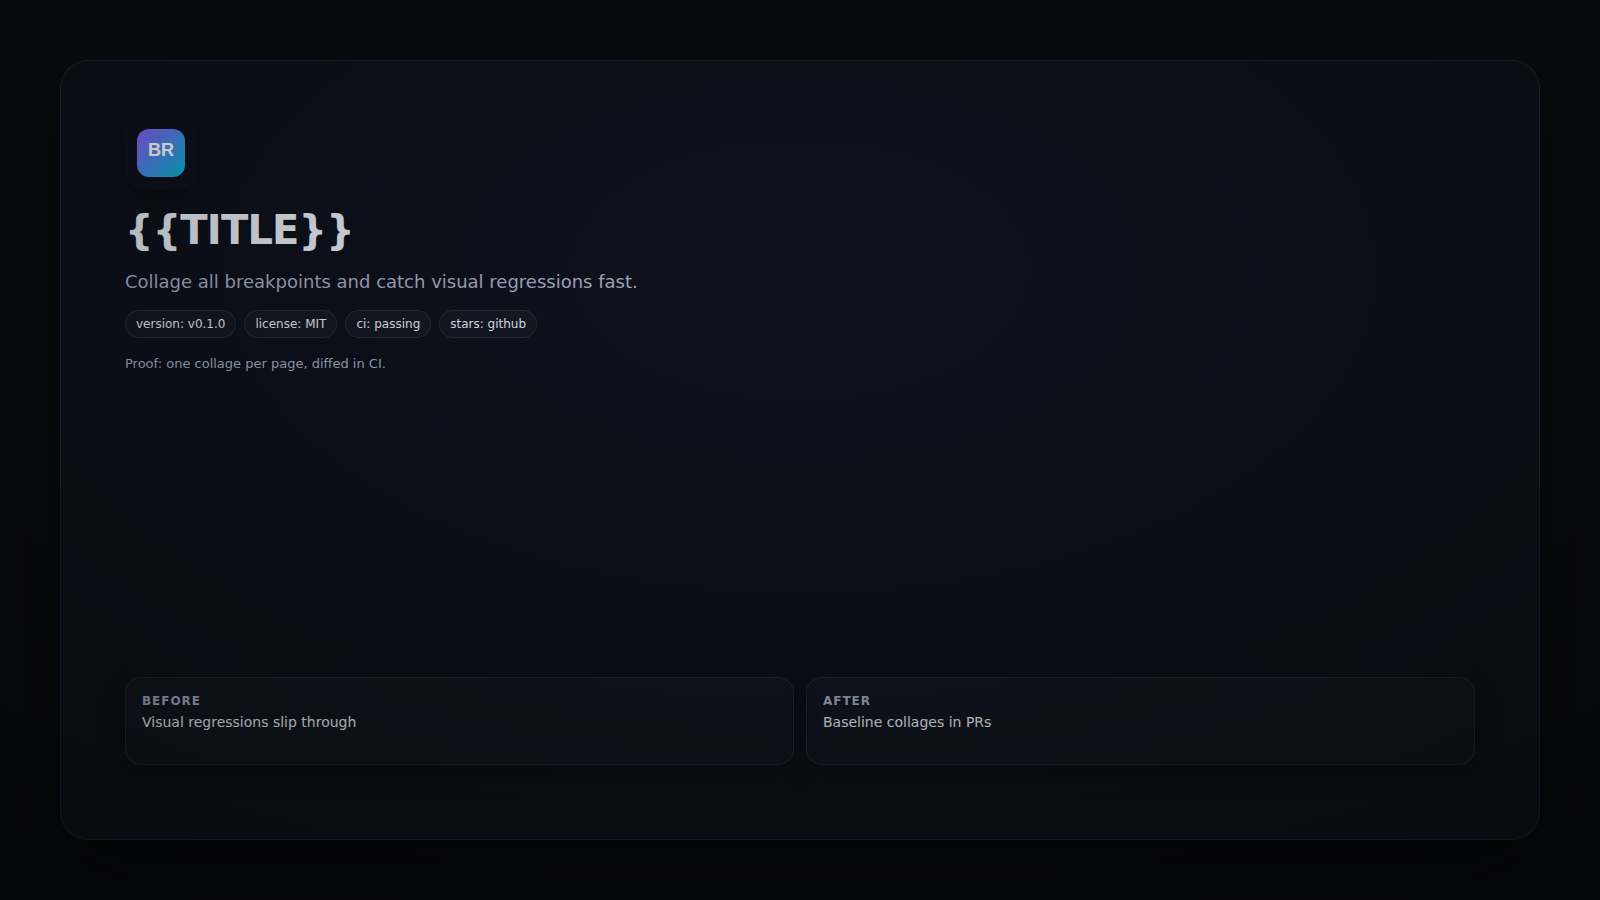
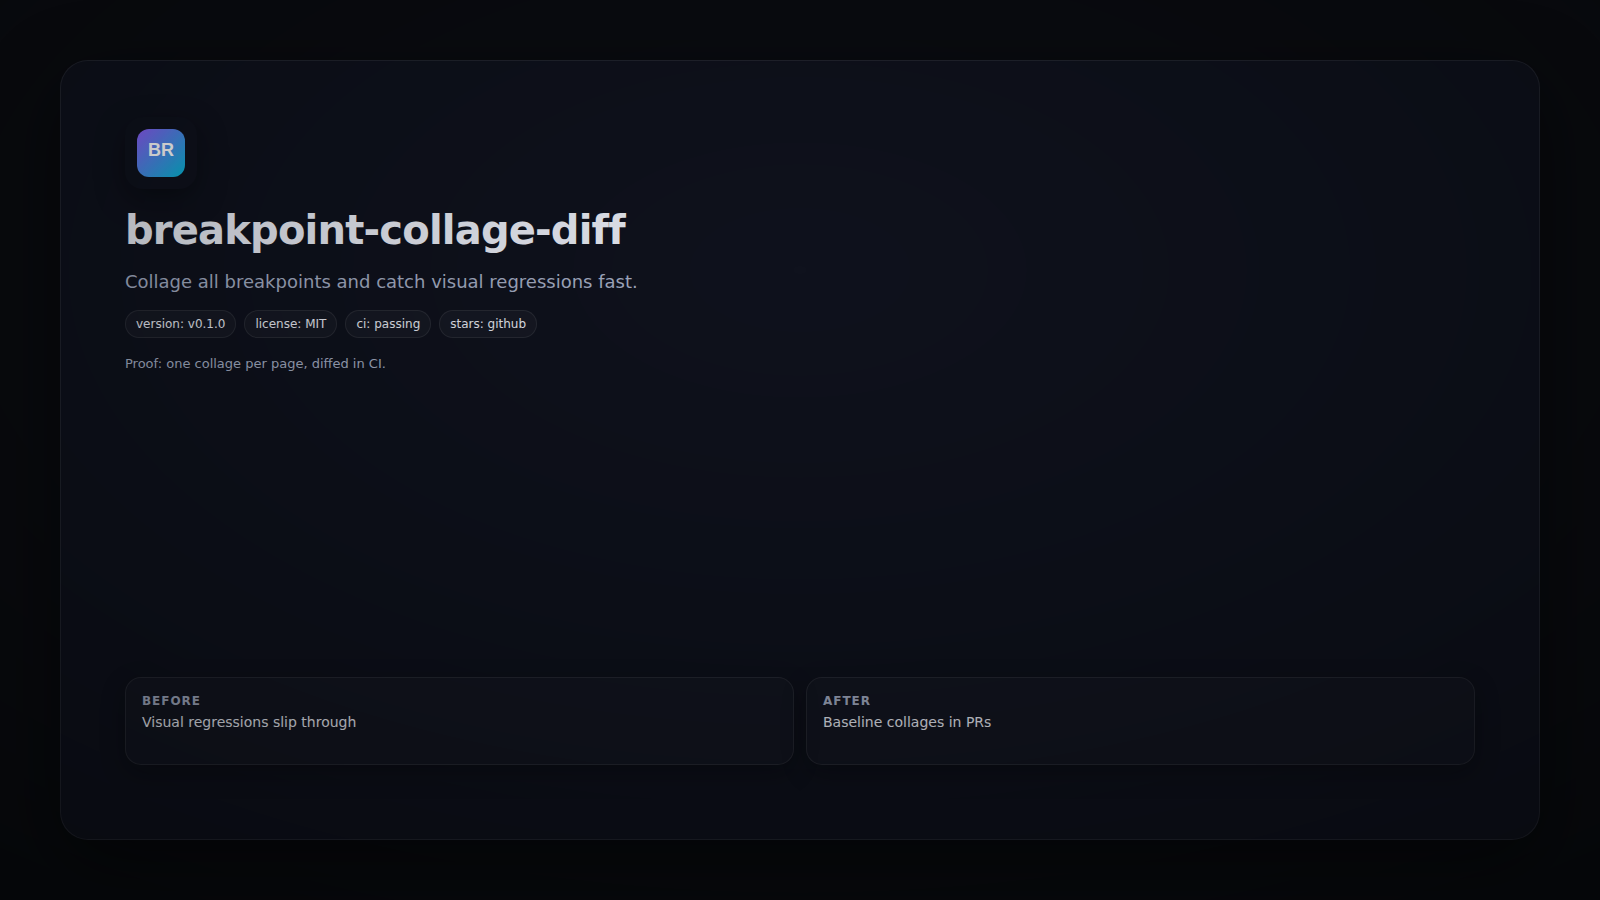
chore: update visuals

Changed region(s): [[0.0625, 0.2178, 0.4062, 0.28]]

diff --git a/assets/.hero.html b/assets/.hero.html
@@ -80,7 +80,7 @@ body { width: var(--w); height: var(--h); display: grid; place-items: center; }
 <body class="vignette" style="--w: 1600px; --h: 900px; --accent-a: #8b5cf6; --accent-b: #06b6d4;">
   <div class="canvas">
     <div class="logo"><svg xmlns="http://www.w3.org/2000/svg" width="48" height="48" viewBox="0 0 48 48"><defs><linearGradient id="g" x1="0" y1="0" x2="1" y2="1"><stop stop-color="#8b5cf6"/><stop offset="1" stop-color="#06b6d4"/></linearGradient></defs><rect width="48" height="48" rx="12" fill="url(#g)"/><text x="50%" y="56%" text-anchor="middle" font-family="Inter, Arial" font-size="18" font-weight="800" fill="white">BR</text></svg></div>
-    <div class="title">{{TITLE}}</div>
+    <div class="title">breakpoint-collage-diff</div>
     <div class="tagline">Collage all breakpoints and catch visual regressions fast.</div>
     <div class="badges"><span class="badge">version: v0.1.0</span><span class="badge">license: MIT</span><span class="badge">ci: passing</span><span class="badge">stars: github</span></div>
     <div class="proof">Proof: one collage per page, diffed in CI.</div>

diff --git a/assets/.og.html b/assets/.og.html
@@ -80,7 +80,7 @@ body { width: var(--w); height: var(--h); display: grid; place-items: center; }
 <body class="vignette" style="--w: 1200px; --h: 630px; --accent-a: #8b5cf6; --accent-b: #06b6d4;">
   <div class="canvas">
     <div class="logo"><svg xmlns="http://www.w3.org/2000/svg" width="48" height="48" viewBox="0 0 48 48"><defs><linearGradient id="g" x1="0" y1="0" x2="1" y2="1"><stop stop-color="#8b5cf6"/><stop offset="1" stop-color="#06b6d4"/></linearGradient></defs><rect width="48" height="48" rx="12" fill="url(#g)"/><text x="50%" y="56%" text-anchor="middle" font-family="Inter, Arial" font-size="18" font-weight="800" fill="white">BR</text></svg></div>
-    <div class="title">{{TITLE}}</div>
+    <div class="title">breakpoint-collage-diff</div>
     <div class="tagline">Collage all breakpoints and catch visual regressions fast.</div>
     <div class="badges"><span class="badge">version: v0.1.0</span><span class="badge">license: MIT</span><span class="badge">ci: passing</span><span class="badge">stars: github</span></div>
     <div class="proof">Proof: one collage per page, diffed in CI.</div>
